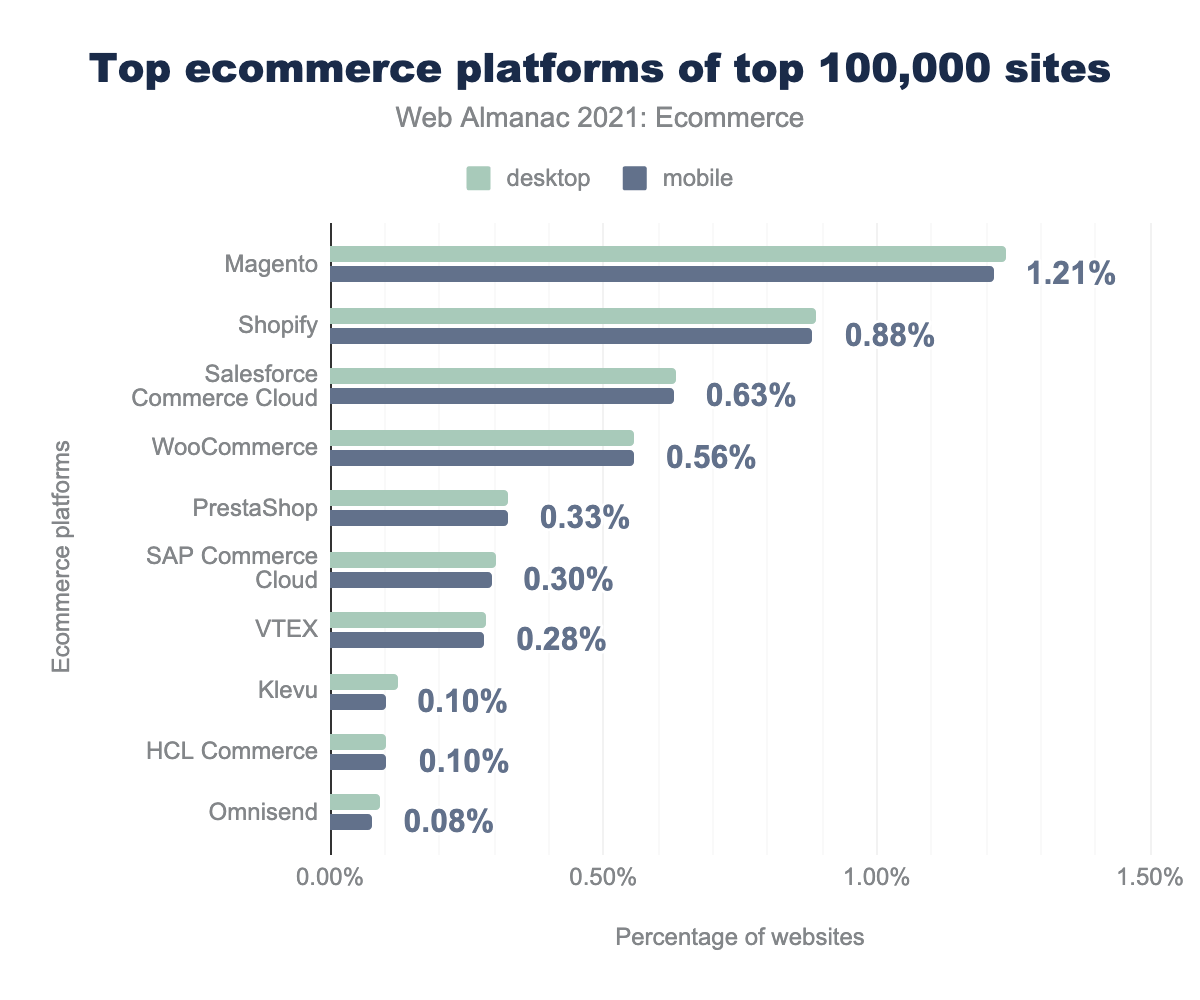
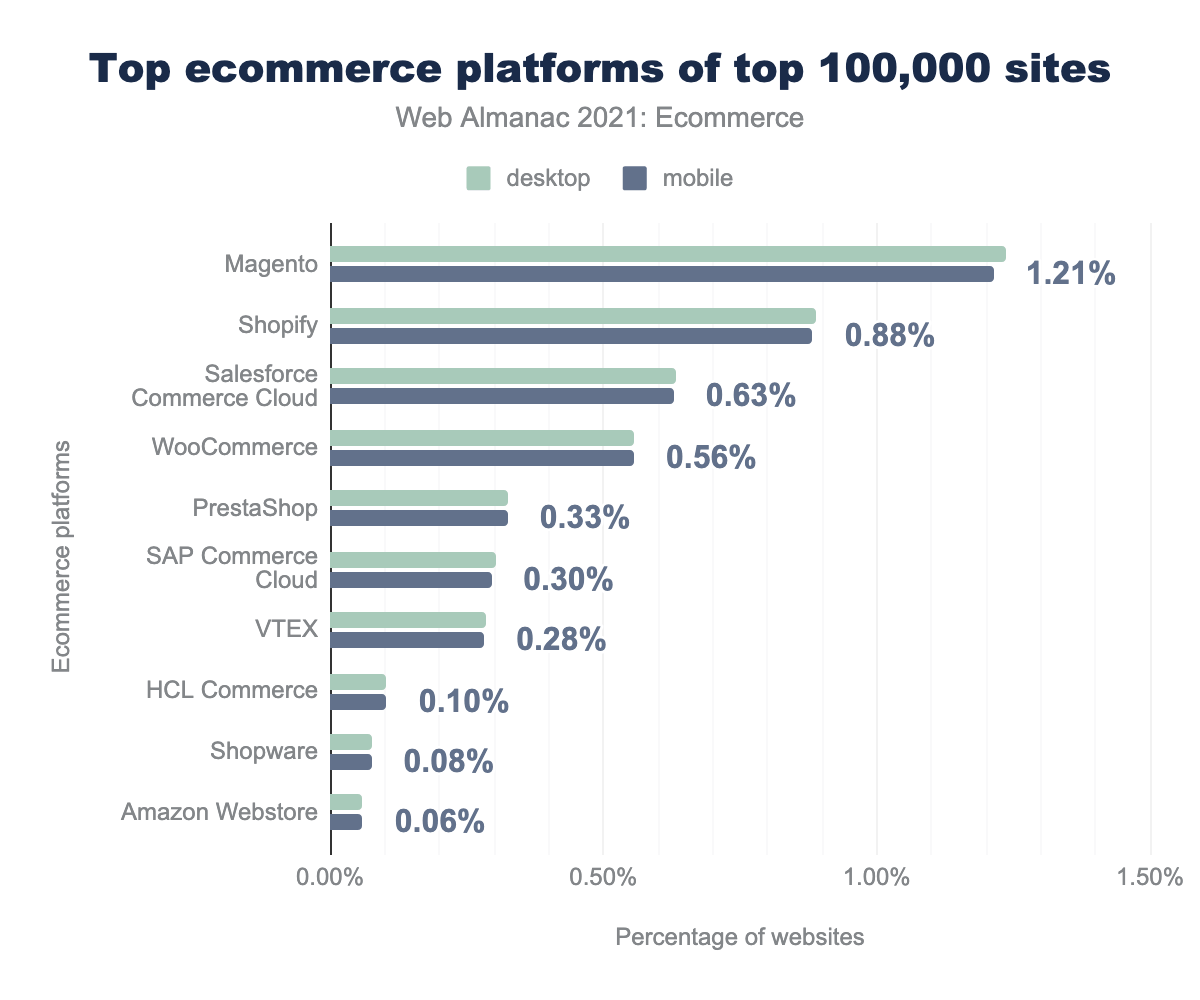
More corrections

diff --git a/src/content/en/2021/ecommerce.md b/src/content/en/2021/ecommerce.md
@@ -129,8 +129,8 @@ Another way to look at the results is to consider the most popular platforms wit
 
 {{ figure_markup(
   image="top-ecommerce-platforms-top-1m-sites.png",
-  caption="Top ecommerce platforms of top 1m sites",
-  description="A bar chart showing in descending order the usage of ecommerce platforms within the top 1 million sites. 3.49% on mobile are WooCommerce, 2.76% are Shopify, 1.48% are Magento, 1.17% are PrestaShop, 0.25% are Imnisend, 0.23% are Shopware, 0.22% are BigCommerce, 0.19% are Look, 0.15% are Salesforce Commerce Cloud, and 0.14% are VTEX. Desktop usage looks very similar.",
+  caption="Top ecommerce platforms of 1 million sites",
+  description="A bar chart showing in descending order the usage of ecommerce platforms within the top 1 million sites. 3.49% on mobile are WooCommerce, 2.76% are Shopify, 1.48% are Magento, 1.17% are PrestaShop, 0.23% are Shopware, 0.22% are BigCommerce, 0.15% are Salesforce Commerce Cloud, 0.14% are VTEX, 0.10 are Shoper, and finally 0.10% are Tray. Desktop usage looks very similar.",
   chart_url="https://docs.google.com/spreadsheets/d/e/2PACX-1vT70VMNXb1X6Mnh69JGhQILb5ImqBkg6MtMpPiZnrNfYXQ7nngGWHO_kj87tAG5FkIyOvpNNYJmkLVY/pubchart?oid=86873602&format=interactive",
   sheets_gid="1491793974",
   sql_file="top_vendors_crux_rank.sql",
@@ -147,7 +147,7 @@ We also see Magento take the third spot over PrestaShop. Wix eCommerce and Squar
 {{ figure_markup(
   image="top-ecommerce-platforms-top-100k-sites.png",
   caption="Top ecommerce platforms of top 100,000 sites",
-  description="A bar chart showing in descending order the usage of ecommerce platforms within the top 100,000 sites. On mobile 1.21% are Magento, 0.88% are Shopify, 0.63% are Salesforce Commerce Cloud, 0.56% are WooCommerce, 0.33% are PrestaShop, 0.30% are SAP Commerce Cloud, 0.28% are VTEX, 0.10% are Klevu, 0.10% are HCL Commerce, and finally 0.08% are Imnisend. Desktop usage looks very similar.",
+  description="A bar chart showing in descending order the usage of ecommerce platforms within the top 100,000 sites. On mobile 1.21% are Magento, 0.88% are Shopify, 0.63% are Salesforce Commerce Cloud, 0.56% are WooCommerce, 0.33% are PrestaShop, 0.30% are SAP Commerce Cloud, 0.28% are VTEX, 0.10% are HCL Commerce, 0.08% are Shopware, and finally 0.06% are Amazon Webstore. Desktop usage looks very similar.",
   chart_url="https://docs.google.com/spreadsheets/d/e/2PACX-1vT70VMNXb1X6Mnh69JGhQILb5ImqBkg6MtMpPiZnrNfYXQ7nngGWHO_kj87tAG5FkIyOvpNNYJmkLVY/pubchart?oid=942112971&format=interactive",
   sheets_gid="1491793974",
   sql_file="top_vendors_crux_rank.sql",
